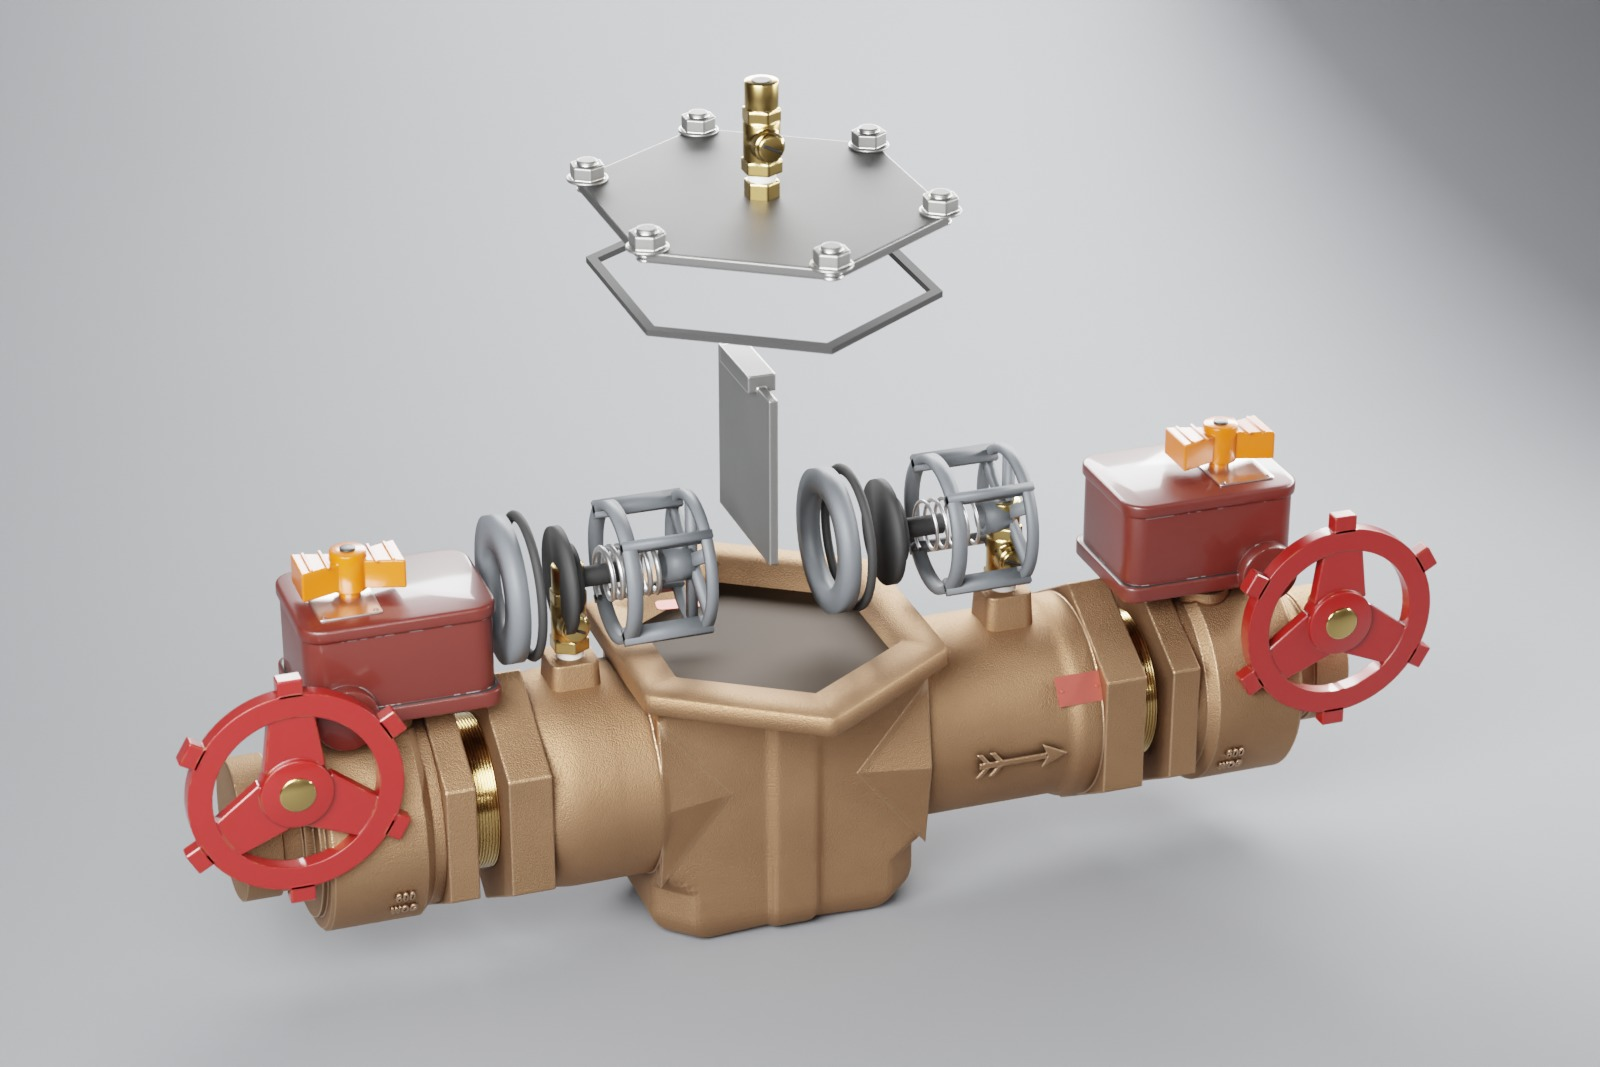
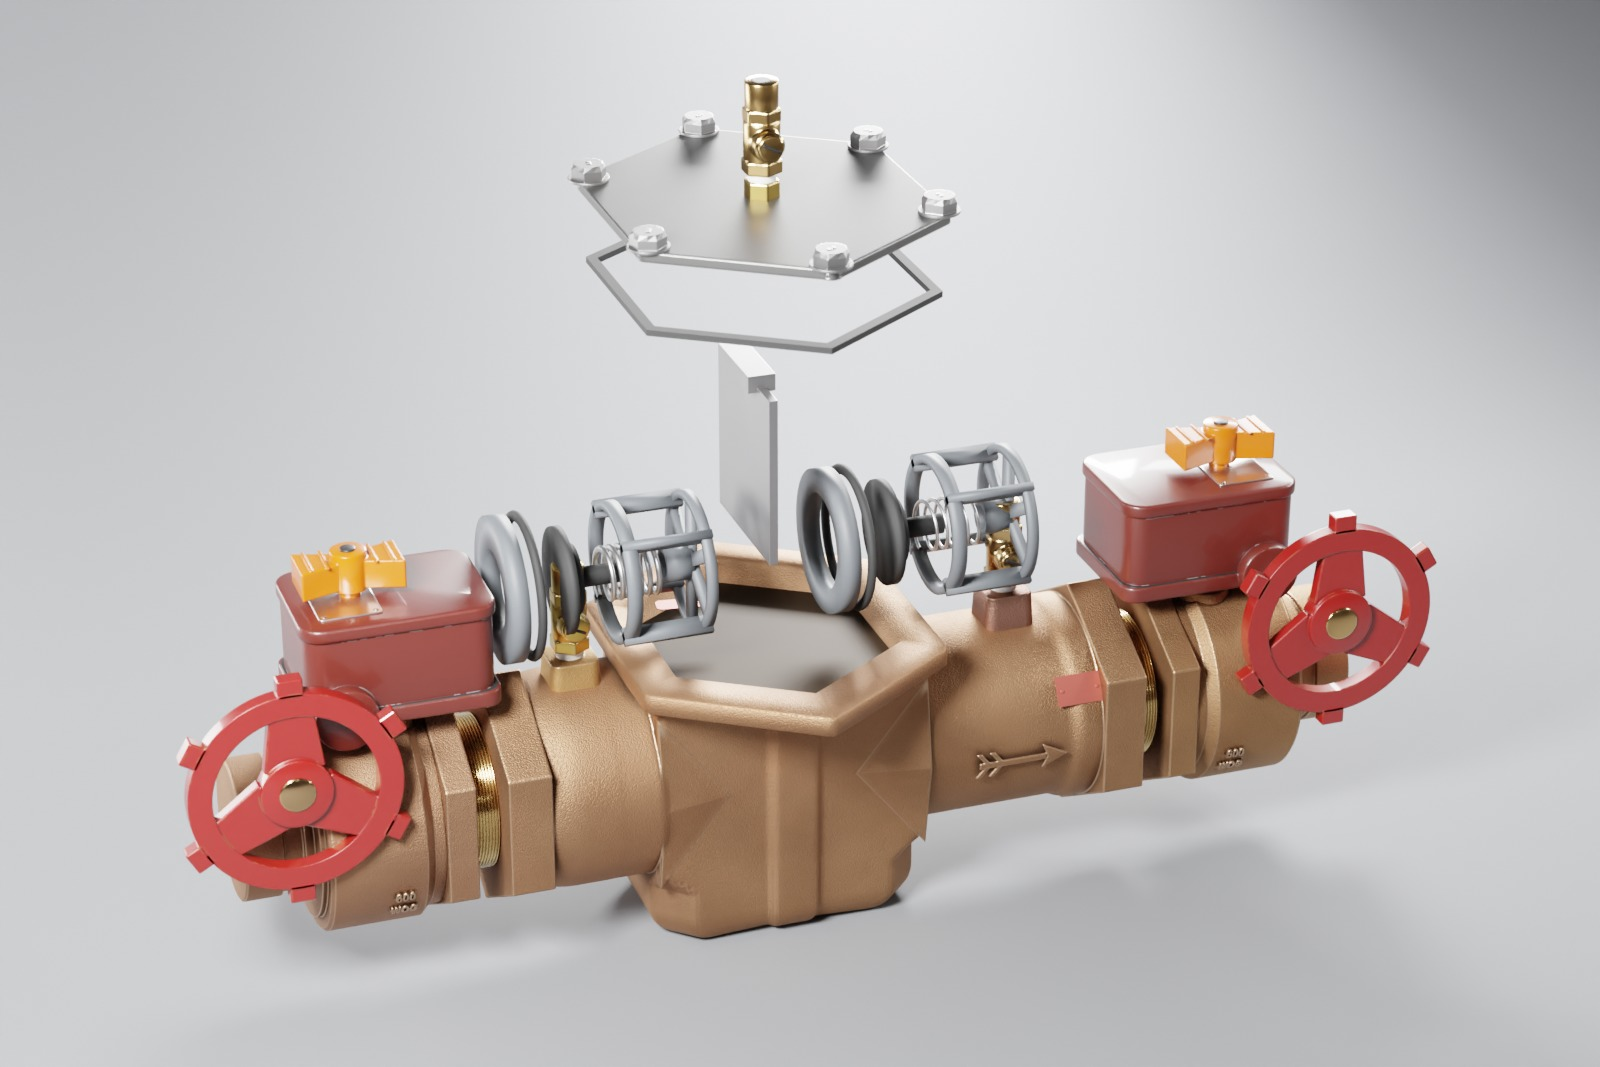
watts: gallery with real cap-screw bolts, material variation and photo lighting; hub note

diff --git a/hub/index.html b/hub/index.html
@@ -155,8 +155,8 @@
       <td class="n">Draft for Ryan Yaeger (Caplugs). Remove the internal on-page note before sending. Size table dims are illustrative; CAD downloads are LIVE for STEP/GLB/USDZ/FBX (green rows; gate form then real file from the public API); native .sldprt and IGES remain mockups. Swap in real PDP dimension data when available.</td></tr><tr class="keep">
       <td><a href="/watts.html" target="_blank">watts.html</a><div class="grp">Watts Water</div></td>
       <td>Ames (Watts) 2000B-FP double check valve: one page, three tabs sharing one viewer. Product (size / end-connection selector, real ES-A-2000B-FP dims + specs, feature list that highlights parts, Revit/BIM + spec + manual links, no pricing), Replacement Parts (real 1" kits ARK 2000B-RT 1 = 7016351 and ARK 2000B-CK4 1 = 7016333 mapped to the exact parts, BOM table, 3D click-to-select, "Open up" slider), Install &amp; Service (10 steps from manual RP/IS-A-2000B: highlights, handwheel spin, cover lift, check removal + fan-out, acknowledge-gated warnings). Hero toggle: Interactive 3D / Blender renders / original Revit file. Deep links ?tab=parts, ?tab=service. B2B eComm World demo for Marta Dalton.</td>
-      <td class="d">2026-10-16</td>
-      <td class="u"><b>2026-10-16:</b> gallery renders replaced with the photo-matched 2" rebuild (one-piece cast center, real fittings, sand-cast finish; admin/watts/modify_watts_v9h/k/l.py on 2000B-FP_v9.blend). The 3D viewer still shows the 1" v7 until the 2" GLB (2000B-FP_v10_2in_photomatch.glb, target <code>tradeshows</code>) gets through platform processing (uploads spinning, with Model Ops/Guzman). 2" model code + kits (ARK 2000B-RT 2 / CK1 2) parked in admin/watts/watts_2in_pending.patch to ship WITH that model. Revit embed now has its own REVIT_WS. All in <code>DCicero / configurators</code>: page loads v7 <code>737ea709</code> only (open cover seat + ring gasket). Original Revit <code>a960f6a4</code> (before/after view). 3 platform hotspots created via admin API (cover, gear operator, test cocks), rendered on the Product tab. Superseded v2-v6 + duplicate v7 <code>d59a0538</code> deleted 2026-10-06. Deringer 30X Revit <code>e90632db</code> uploaded by Derek (candidate 2nd Watts product). Renders under assets/watts/ (v2 photoreal pass 2026-10-15: admin/watts/render_v2/render_watts_v2.py). Source .blend/.glb in admin/watts/ (not committed).</td>
+      <td class="d">2026-10-19</td>
+      <td class="u"><b>2026-10-19:</b> gallery re-rendered with real cap-screw cover bolts (admin/watts/modify_watts_v9n.py, chamfered hex + washer + grade mark) and the Northline material/lighting upgrades ported into render_watts_v2.py (per-part variation, roughness breakup, varied grain, LIGHT=photo); clean finish (WEAR=0). <b>2026-10-16:</b> gallery renders replaced with the photo-matched 2" rebuild (one-piece cast center, real fittings, sand-cast finish; admin/watts/modify_watts_v9h/k/l.py on 2000B-FP_v9.blend). The 3D viewer still shows the 1" v7 until the 2" GLB (2000B-FP_v10_2in_photomatch.glb, target <code>tradeshows</code>) gets through platform processing (uploads spinning, with Model Ops/Guzman). 2" model code + kits (ARK 2000B-RT 2 / CK1 2) parked in admin/watts/watts_2in_pending.patch to ship WITH that model. Revit embed now has its own REVIT_WS. All in <code>DCicero / configurators</code>: page loads v7 <code>737ea709</code> only (open cover seat + ring gasket). Original Revit <code>a960f6a4</code> (before/after view). 3 platform hotspots created via admin API (cover, gear operator, test cocks), rendered on the Product tab. Superseded v2-v6 + duplicate v7 <code>d59a0538</code> deleted 2026-10-06. Deringer 30X Revit <code>e90632db</code> uploaded by Derek (candidate 2nd Watts product). Renders under assets/watts/ (v2 photoreal pass 2026-10-15: admin/watts/render_v2/render_watts_v2.py). Source .blend/.glb in admin/watts/ (not committed).</td>
       <td class="n">Draft. Model rebuilt in Blender from the spec-sheet photo (Revit used for layout only); internals modeled from the manual's exploded drawing. Next: consumer Watts product, optional Figurement renders.</td></tr><tr class="keep">
       <td><a href="/northline-rpz.html" target="_blank">northline-rpz.html</a><div class="grp">Generic / Tradeshow</div></td>
       <td>Brand-neutral twin of the Watts page: fictional "Northline Flow Controls" NRP-200 RPZ (reduced pressure zone) backflow preventer, built so it does NOT read as any real product (teal quarter-turn levers, two round 4-bolt check covers, front-access relief valve, grey air-gap funnel, NORTHLINE cast on body). Same three tabs (Product / Replacement Parts with Outside-Inside callouts / 10-step Install &amp; Service incl. air-gap drain + relief valve service, lever quarter-turn animation), Renders gallery, QR/AR, real GLB download. Fictional part numbers NL-10441..3 (kits RT / CK / RV); footer says brand + specs are illustrative.</td>

diff --git a/watts.html b/watts.html
@@ -781,9 +781,9 @@ $("resetBtn").onclick=()=>{ applyTabState(); };
 
 /* ---------------- renders + Revit overlay ---------------- */
 const RENDERS=[["hero","Hero, three-quarter"],["front","Front elevation"],["top","Top three-quarter"],["detail","Gear operator detail"],["service","Service view, checks removed"]];
-$("gallery").innerHTML=RENDERS.map(([k,c],i)=>`<figure data-i="${i}"><img src="assets/watts/render_${k}.jpg?v=5" alt="${c}" loading="lazy"><figcaption>${c}</figcaption></figure>`).join("");
-$("thumbs").innerHTML=RENDERS.map(([k,c],i)=>`<img data-i="${i}" src="assets/watts/render_${k}.jpg?v=5" alt="${c}">`).join("");
-function showRender(i){ $("renderImg").src=`assets/watts/render_${RENDERS[i][0]}.jpg?v=5`; $("thumbs").querySelectorAll("img").forEach(t=>t.classList.toggle("on",+t.dataset.i===i)); }
+$("gallery").innerHTML=RENDERS.map(([k,c],i)=>`<figure data-i="${i}"><img src="assets/watts/render_${k}.jpg?v=6" alt="${c}" loading="lazy"><figcaption>${c}</figcaption></figure>`).join("");
+$("thumbs").innerHTML=RENDERS.map(([k,c],i)=>`<img data-i="${i}" src="assets/watts/render_${k}.jpg?v=6" alt="${c}">`).join("");
+function showRender(i){ $("renderImg").src=`assets/watts/render_${RENDERS[i][0]}.jpg?v=6`; $("thumbs").querySelectorAll("img").forEach(t=>t.classList.toggle("on",+t.dataset.i===i)); }
 $("thumbs").addEventListener("click",e=>{ const t=e.target.closest("img"); if(t) showRender(+t.dataset.i); });
 $("gallery").addEventListener("click",e=>{ const f=e.target.closest("figure"); if(!f) return; setTab("product"); setMode("renders"); showRender(+f.dataset.i); window.scrollTo({top:0,behavior:"smooth"}); });
 function setMode(m){
